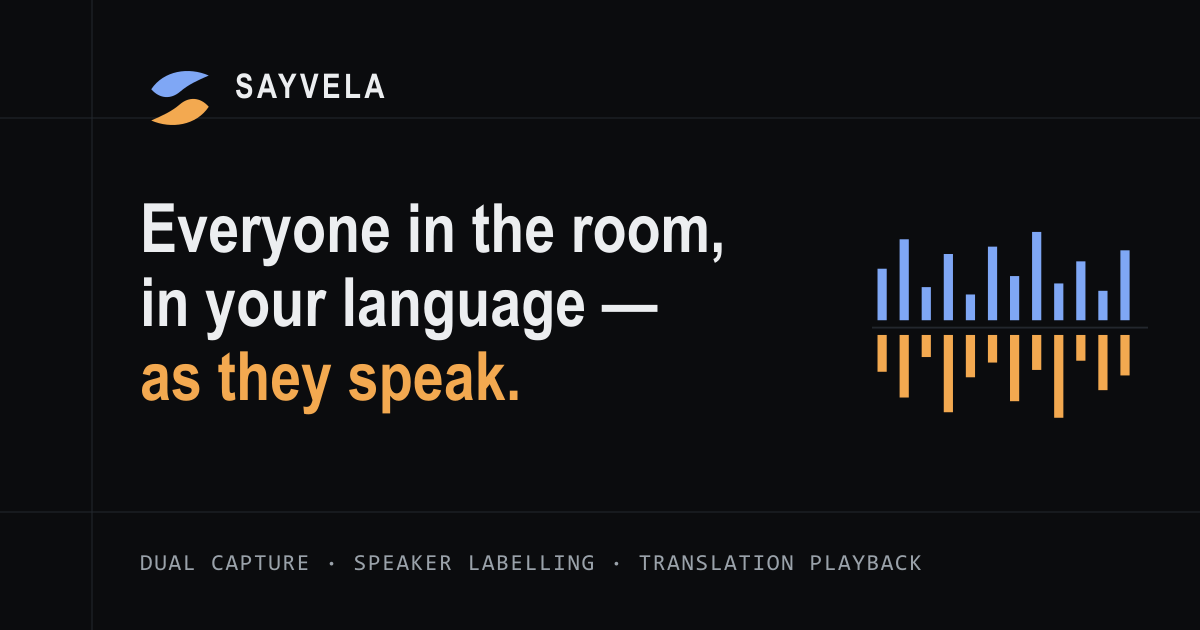
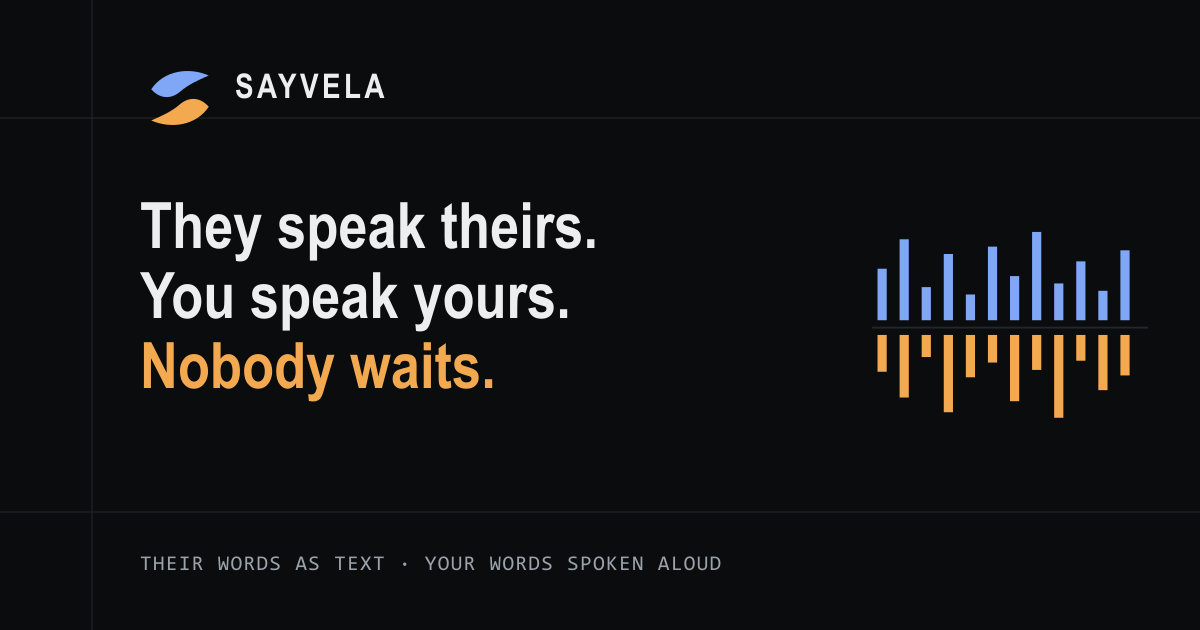
feat: update i18n copy and branding for clearer communication
- Revised landing page and metadata descriptions across Japanese, English, and Vietnamese locales for improved clarity and alignment.
- Updated hero titles, subtitles, and ledes with more intuitive messaging.
- Adjusted CSS for Japanese text with `auto-phrase` to enhance line-breaking behavior.
- Refined SVG assets with new branding slogan and updated typography.

Changed region(s): [[0.0925, 0.3016, 0.6167, 0.6635], [0.0925, 0.8746, 0.7708, 0.9048]]

diff --git a/web/frontend/src/i18n/messages/ja.ts b/web/frontend/src/i18n/messages/ja.ts
@@ -8,7 +8,7 @@ export const ja = {
         "マイクとシステム音声を2系統で同時に収音し、会議の進行中に文字起こし・翻訳・話者識別まで行います。通話が終わった時点で対訳の記録が残ります。",
       ogTitle: "Sayvela — 会議のリアルタイム翻訳",
       ogDescription:
-        "多言語会議のための2系統収音・リアルタイム文字起こし・翻訳・話者識別。",
+        "相手の発言はあなたの言語の文字で、あなたの発言は相手の言語の音声で。",
     },
     dashboard: "ダッシュボード — Sayvela",
     sessions: "セッション — Sayvela",
@@ -101,8 +101,8 @@ export const ja = {
   landing: {
     hero: {
       eyebrow: "会議のリアルタイム翻訳",
-      title: "その場の発言が、[[話すそばから自分の言語に]]。",
-      lede: "Sayvelaはマイクと通話音声を別系統で収音し、会議が進んでいる最中に文字起こし・翻訳・話者識別まで行います。終わった時点で対訳の記録ができています。",
+      title: "相手は母語のまま。あなたも母語のまま。[[待つ必要はありません]]。",
+      lede: "相手の発言は言い終えた瞬間にあなたの言語の文字で表示され、あなたの発言は相手の言語で読み上げられます。通訳も、共通の第三言語も必要ありません。",
       primary: "無料で試す",
       secondary: "料金を見る",
     },

diff --git a/web/frontend/src/i18n/messages/vi.ts b/web/frontend/src/i18n/messages/vi.ts
@@ -6,7 +6,7 @@ export const vi = {
         "Thu song song micro và âm thanh hệ thống, ghi lời, dịch và gán người nói ngay trong cuộc họp. Biên bản song ngữ có ngay khi cuộc họp kết thúc.",
       ogTitle: "Sayvela — Phiên dịch hội thoại theo thời gian thực",
       ogDescription:
-        "Thu hai kênh, ghi lời, dịch và gán người nói cho các cuộc họp đa ngôn ngữ.",
+        "Lời họ hiện thành chữ trong tiếng của bạn; lời bạn được đọc ra bằng tiếng của họ.",
     },
     dashboard: "Tổng quan — Sayvela",
     sessions: "Phiên làm việc — Sayvela",
@@ -99,8 +99,8 @@ export const vi = {
   landing: {
     hero: {
       eyebrow: "Phiên dịch hội thoại theo thời gian thực",
-      title: "Cả phòng họp nói ngôn ngữ của bạn, [[ngay khi họ nói]].",
-      lede: "Sayvela thu micro và âm thanh cuộc gọi trên hai kênh riêng, ghi lời, dịch và gán người nói trong lúc cuộc họp đang diễn ra. Kết thúc là có ngay biên bản song ngữ.",
+      title: "Họ nói tiếng của họ. Bạn nói tiếng của bạn. [[Không ai phải đợi]].",
+      lede: "Lời họ hiện thành chữ trong tiếng của bạn ngay khi vừa dứt câu; lời bạn được đọc ra bằng tiếng của họ. Không phiên dịch viên, không ai phải đổi sang ngôn ngữ thứ ba.",
       primary: "Dùng thử miễn phí",
       secondary: "Xem bảng giá",
     },

diff --git a/web/frontend/src/i18n/messages/en.ts b/web/frontend/src/i18n/messages/en.ts
@@ -8,7 +8,7 @@ export const en = {
         "Capture your microphone and system audio on separate channels, transcribe, translate and label speakers while the meeting runs. The bilingual transcript is ready the moment you hang up.",
       ogTitle: "Sayvela — Real-time meeting translation",
       ogDescription:
-        "Dual-channel capture, live transcription, translation and speaker labelling for multilingual meetings.",
+        "Their words land as text in your language; yours are spoken aloud in theirs.",
     },
     dashboard: "Overview — Sayvela",
     sessions: "Sessions — Sayvela",
@@ -101,8 +101,8 @@ export const en = {
   landing: {
     hero: {
       eyebrow: "Real-time meeting translation",
-      title: "Everyone in the room, in your language — [[as they speak]].",
-      lede: "Sayvela records your microphone and the call audio on two separate channels, then transcribes, translates and labels every speaker while the meeting is still running.",
+      title: "They speak theirs. You speak yours. [[Nobody waits]].",
+      lede: "Their words land as text in your language the moment they finish; yours are spoken aloud in theirs. No interpreter, and nobody has to fall back on a third language.",
       primary: "Start for free",
       secondary: "See pricing",
     },

diff --git a/web/frontend/src/app/globals.css b/web/frontend/src/app/globals.css
@@ -253,6 +253,10 @@
     font-family: "Hiragino Kaku Gothic ProN", "Yu Gothic", YuGothic, "Noto Sans JP",
       Meiryo, var(--font-display), sans-serif;
     letter-spacing: 0;
+    /* Tiếng Nhật vốn ngắt dòng ở gần như mọi ký tự, nên tiêu đề dễ bị cắt giữa
+       một từ. auto-phrase ngắt theo cụm từ; trình duyệt chưa hỗ trợ thì rơi về
+       hành vi mặc định, không tệ hơn hiện tại. */
+    word-break: auto-phrase;
   }
 
   p {
